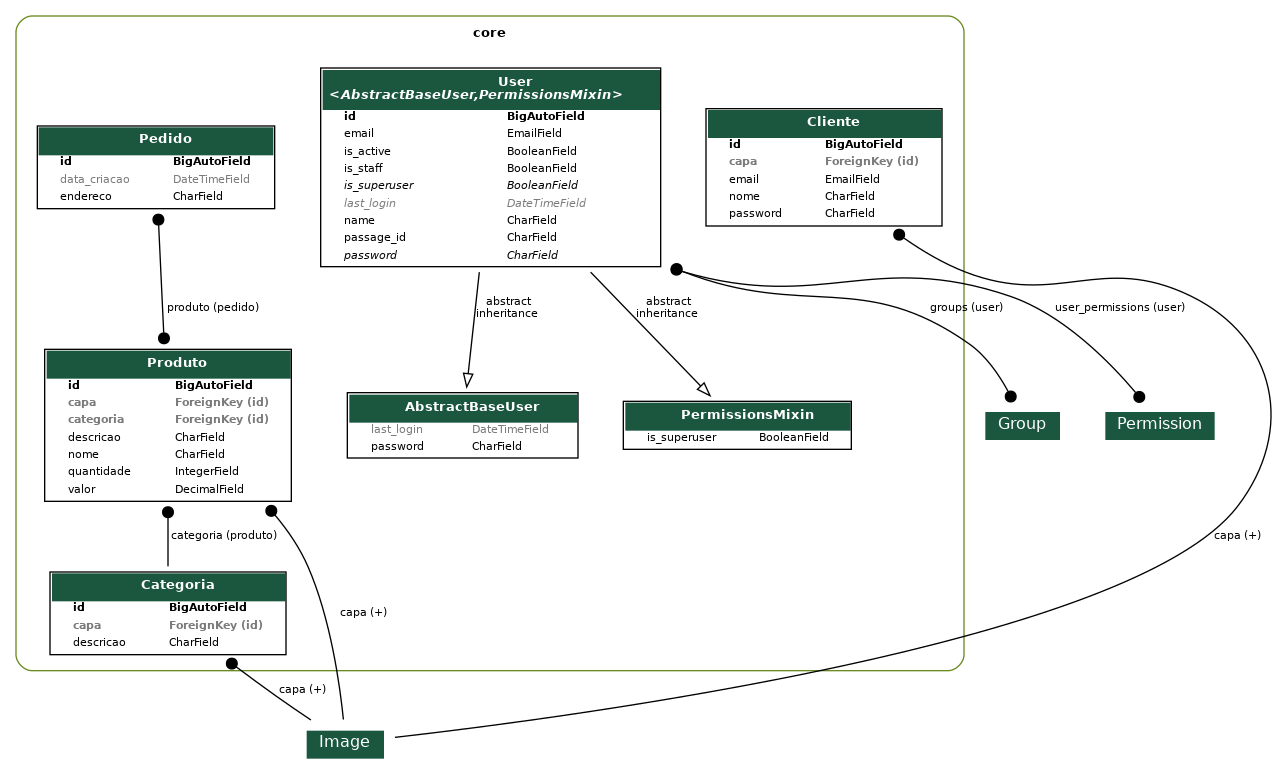
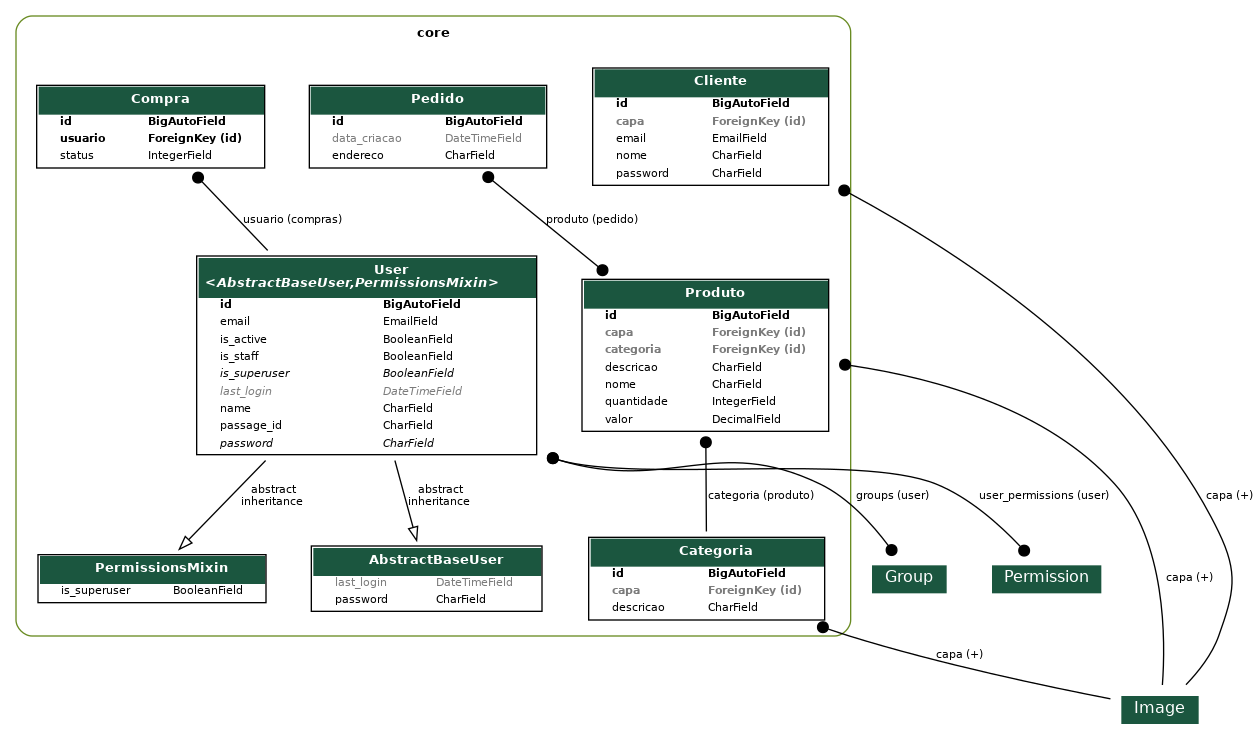
Criação da entidade Compra integrada ao usuário do projeto

diff --git a/core/migrations/0016_compra.py b/core/migrations/0016_compra.py
@@ -1,0 +1,33 @@
+# Generated by Django 5.0.6 on 2024-12-03 11:11
+
+import django.db.models.deletion
+from django.conf import settings
+from django.db import migrations, models
+
+
+class Migration(migrations.Migration):
+
+    dependencies = [
+        ("core", "0015_alter_produto_capa"),
+    ]
+
+    operations = [
+        migrations.CreateModel(
+            name="Compra",
+            fields=[
+                ("id", models.BigAutoField(auto_created=True, primary_key=True, serialize=False, verbose_name="ID")),
+                (
+                    "status",
+                    models.IntegerField(
+                        choices=[(1, "Carrinho"), (2, "Realizado"), (3, "Pago"), (4, "Entregue")], default=1
+                    ),
+                ),
+                (
+                    "usuario",
+                    models.ForeignKey(
+                        on_delete=django.db.models.deletion.PROTECT, related_name="compras", to=settings.AUTH_USER_MODEL
+                    ),
+                ),
+            ],
+        ),
+    ]

diff --git a/core/models/compra.py b/core/models/compra.py
@@ -1,0 +1,14 @@
+from django.db import models
+
+from .user import User
+
+
+class Compra(models.Model):
+    class StatusCompra(models.IntegerChoices):
+        CARRINHO = 1, "Carrinho"
+        REALIZADO = 2, "Realizado"
+        PAGO = 3, "Pago"
+        ENTREGUE = 4, "Entregue"
+
+    usuario = models.ForeignKey(User, on_delete=models.PROTECT, related_name="compras")
+    status = models.IntegerField(choices=StatusCompra.choices, default=StatusCompra.CARRINHO)

diff --git a/core/admin.py b/core/admin.py
@@ -55,3 +55,4 @@ admin.site.register(models.Categoria)
 admin.site.register(models.Produto)
 admin.site.register(models.Cliente)
 admin.site.register(models.Pedido)
+admin.site.register(models.Compra)

diff --git a/core/models/__init__.py b/core/models/__init__.py
@@ -3,3 +3,4 @@ from .categoria import Categoria
 from .produto import Produto
 from .cliente import Cliente
 from .pedido import Pedido
+from .compra import Compra
